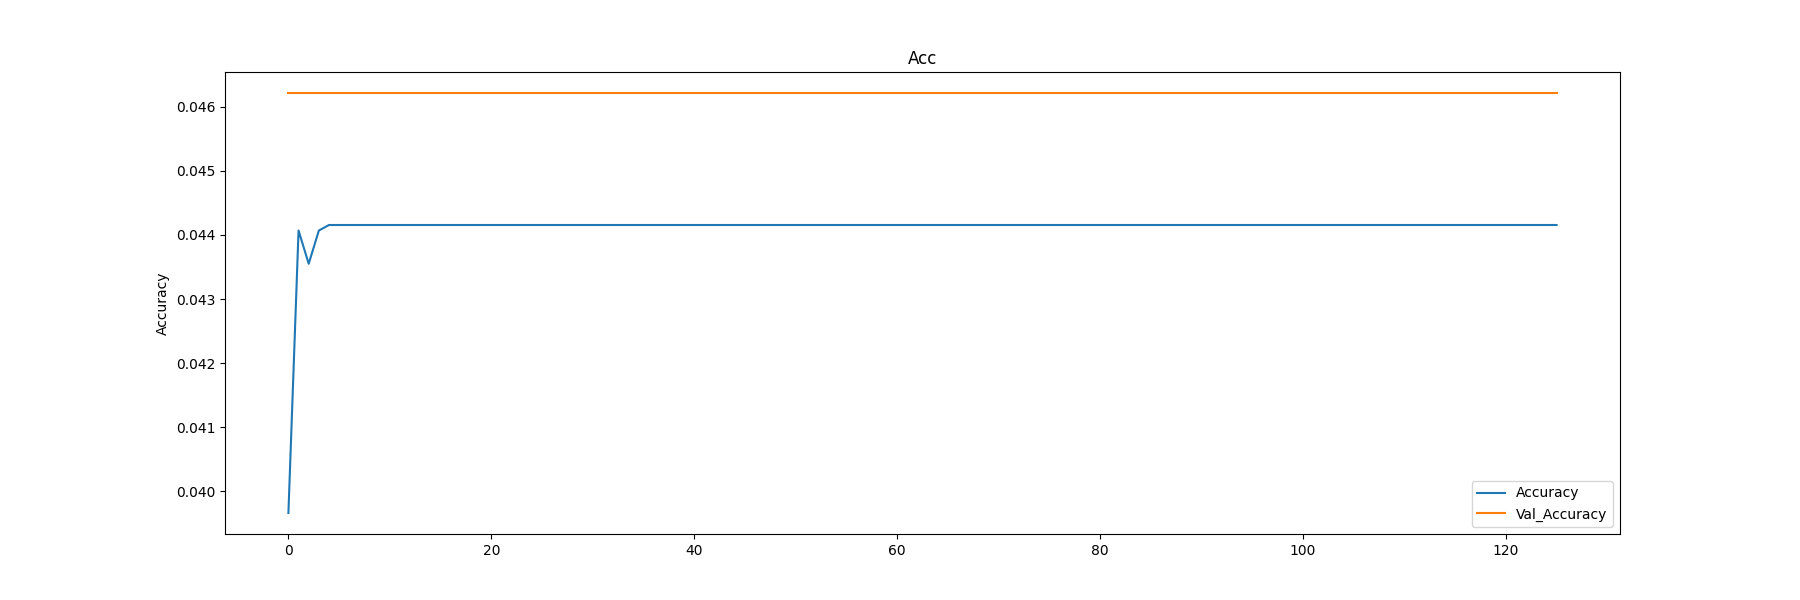
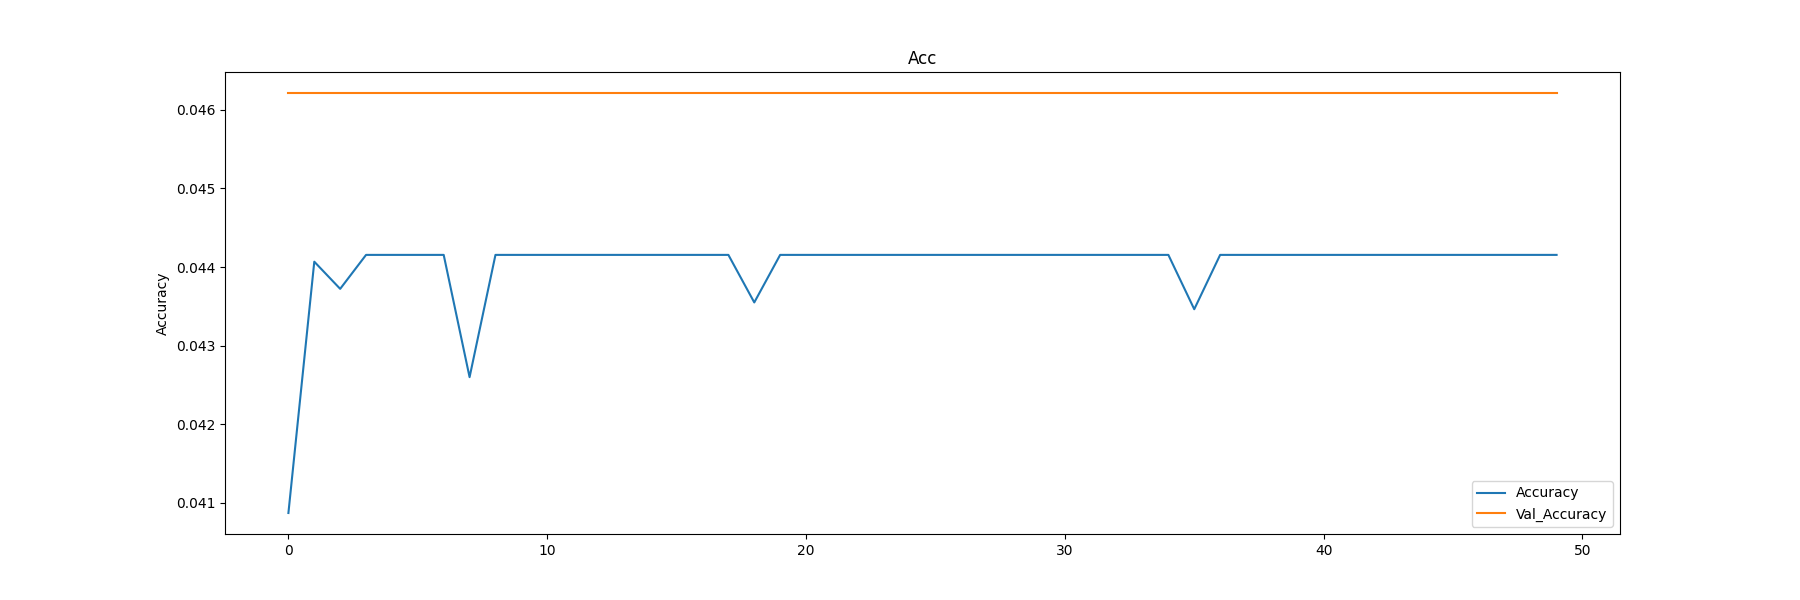
[AUTO] training model v0.0-testing, epoch 50.

diff --git a/commands/model_def.py b/commands/model_def.py
@@ -1,20 +1,11 @@
-import numpy as np
-import pandas as pd
-import csv
-import os
-import glob
 import tensorflow as tf
-
-from PIL import Image
 
 from keras.preprocessing.image import ImageDataGenerator
 
 from keras.models import Sequential
-from keras.models import Model
 
 from keras.layers import Conv2D, MaxPooling2D, Flatten, Dense, Dropout, BatchNormalization, Input
 from keras.optimizers import Adam
-from keras import backend as K
 
 ###########################################################################################################################################
 
@@ -45,7 +36,7 @@ num_classes = 39
 
 training_generator = training_data_generator.flow_from_directory(training_path,
                                                                  target_size = (height, width),
-                                                                 batch_size = 30,
+                                                                 batch_size = batch_size,
                                                                  class_mode = "categorical",
                                                                  color_mode = 'grayscale',
                                                                  )
@@ -72,46 +63,24 @@ with tf.device("/GPU:0"):
 
     model.add(Input(shape=(height, width, 1)))
 
-    # First Conv Block
-    model.add(Conv2D(filters=32, kernel_size=5, padding='same', kernel_initializer='he_normal'))
-    # model.add(BatchNormalization())
-    model.add(tf.keras.layers.ReLU())
-    model.add(MaxPooling2D(pool_size=2))
-
-    # Second Conv Block
-    model.add(Conv2D(filters=64, kernel_size=5, padding='same', kernel_initializer='he_normal'))
-    # model.add(BatchNormalization())
-    model.add(tf.keras.layers.ReLU())
-    model.add(MaxPooling2D(pool_size=2))
-
-    # Third Conv Block
-    model.add(Conv2D(filters=128, kernel_size=5, padding='same', kernel_initializer='he_normal'))
-    # model.add(BatchNormalization())
-    model.add(tf.keras.layers.ReLU())
-    model.add(MaxPooling2D(pool_size=2))
-
-    # Fourth Conv Block
-    model.add(Conv2D(filters=256, kernel_size=5, padding='same', kernel_initializer='he_normal'))
-    # model.add(BatchNormalization())
-    model.add(tf.keras.layers.ReLU())
-    model.add(MaxPooling2D(pool_size=2))
-
-    # Fifth Conv Block
-    model.add(Conv2D(filters=512, kernel_size=5, padding='same', kernel_initializer='he_normal'))
-    # model.add(BatchNormalization())
-    model.add(tf.keras.layers.ReLU())
-    model.add(MaxPooling2D(pool_size=2))
+    # Conv Blocks (Added more filters)
+    for filters in [32, 64, 128, 256, 512]:  # Added a 512-filter layer
+        model.add(Conv2D(filters=filters, kernel_size=5, padding='same', kernel_initializer='he_normal'))
+        model.add(tf.keras.layers.ReLU())
+        model.add(MaxPooling2D(pool_size=2))
 
     # Flatten and Fully Connected Layers
     model.add(Flatten())
-    model.add(Dense(512, activation='relu', kernel_initializer='he_normal'))
-    model.add(Dropout(0.15))
-    model.add(Dense(256, activation='relu', kernel_initializer='he_normal'))
+
+    for neurons in [1024, 512, 256, 128, 64]:
+        model.add(Dense(neurons, activation='relu', kernel_initializer='he_normal'))  # Increased neurons
+        model.add(Dropout(0.15))  # Increased dropout rate
+
+    # Output layer
     model.add(Dense(num_classes, activation='softmax', kernel_initializer='he_normal'))
 
     lr_schedule = tf.keras.optimizers.schedules.ExponentialDecay(
-                initial_learning_rate=0.001,
-                decay_steps=10000,
-                decay_rate=0.9)
-    
+        initial_learning_rate=0.005,
+        decay_steps=10000,
+        decay_rate=0.90)
     opt = Adam(learning_rate=lr_schedule)

diff --git a/commands/plot.py b/commands/plot.py
@@ -6,8 +6,10 @@ import time
 import seaborn as sns
 import matplotlib.pyplot as plt
 
-hist = pd.read_csv('history.csv')
-hist.columns = ['Epoch', 'Loss', 'Accuracy', 'f1_score', 'Val_Loss', 'Val_Accuracy', 'Val_f1_score']
+def read_hist():
+    hist = pd.read_csv('history.csv')
+    hist.columns = ['Epoch', 'Loss', 'Accuracy', 'f1_score', 'Val_Loss', 'Val_Accuracy', 'Val_f1_score']
+    return hist
 
 def create_seaborn_figure(dataframe, columns, fig_name):
     print(f"Creating figure: {fig_name}")
@@ -36,9 +38,7 @@ def update_readme():
 
     # Load data
     print("Loading data...")
-    hist = pd.read_csv('history.csv')
-    hist.columns = ['Epoch', 'Loss', 'Accuracy', 'f1_score', 'Val_Loss', 'Val_Accuracy', 'Val_f1_score']
-    
+    hist = read_hist()
     # Create and save new Plotly figures
     figures_data = [
         {'data': hist, 'columns': ['Loss', 'Val_Loss'], 'name': 'loss'},
